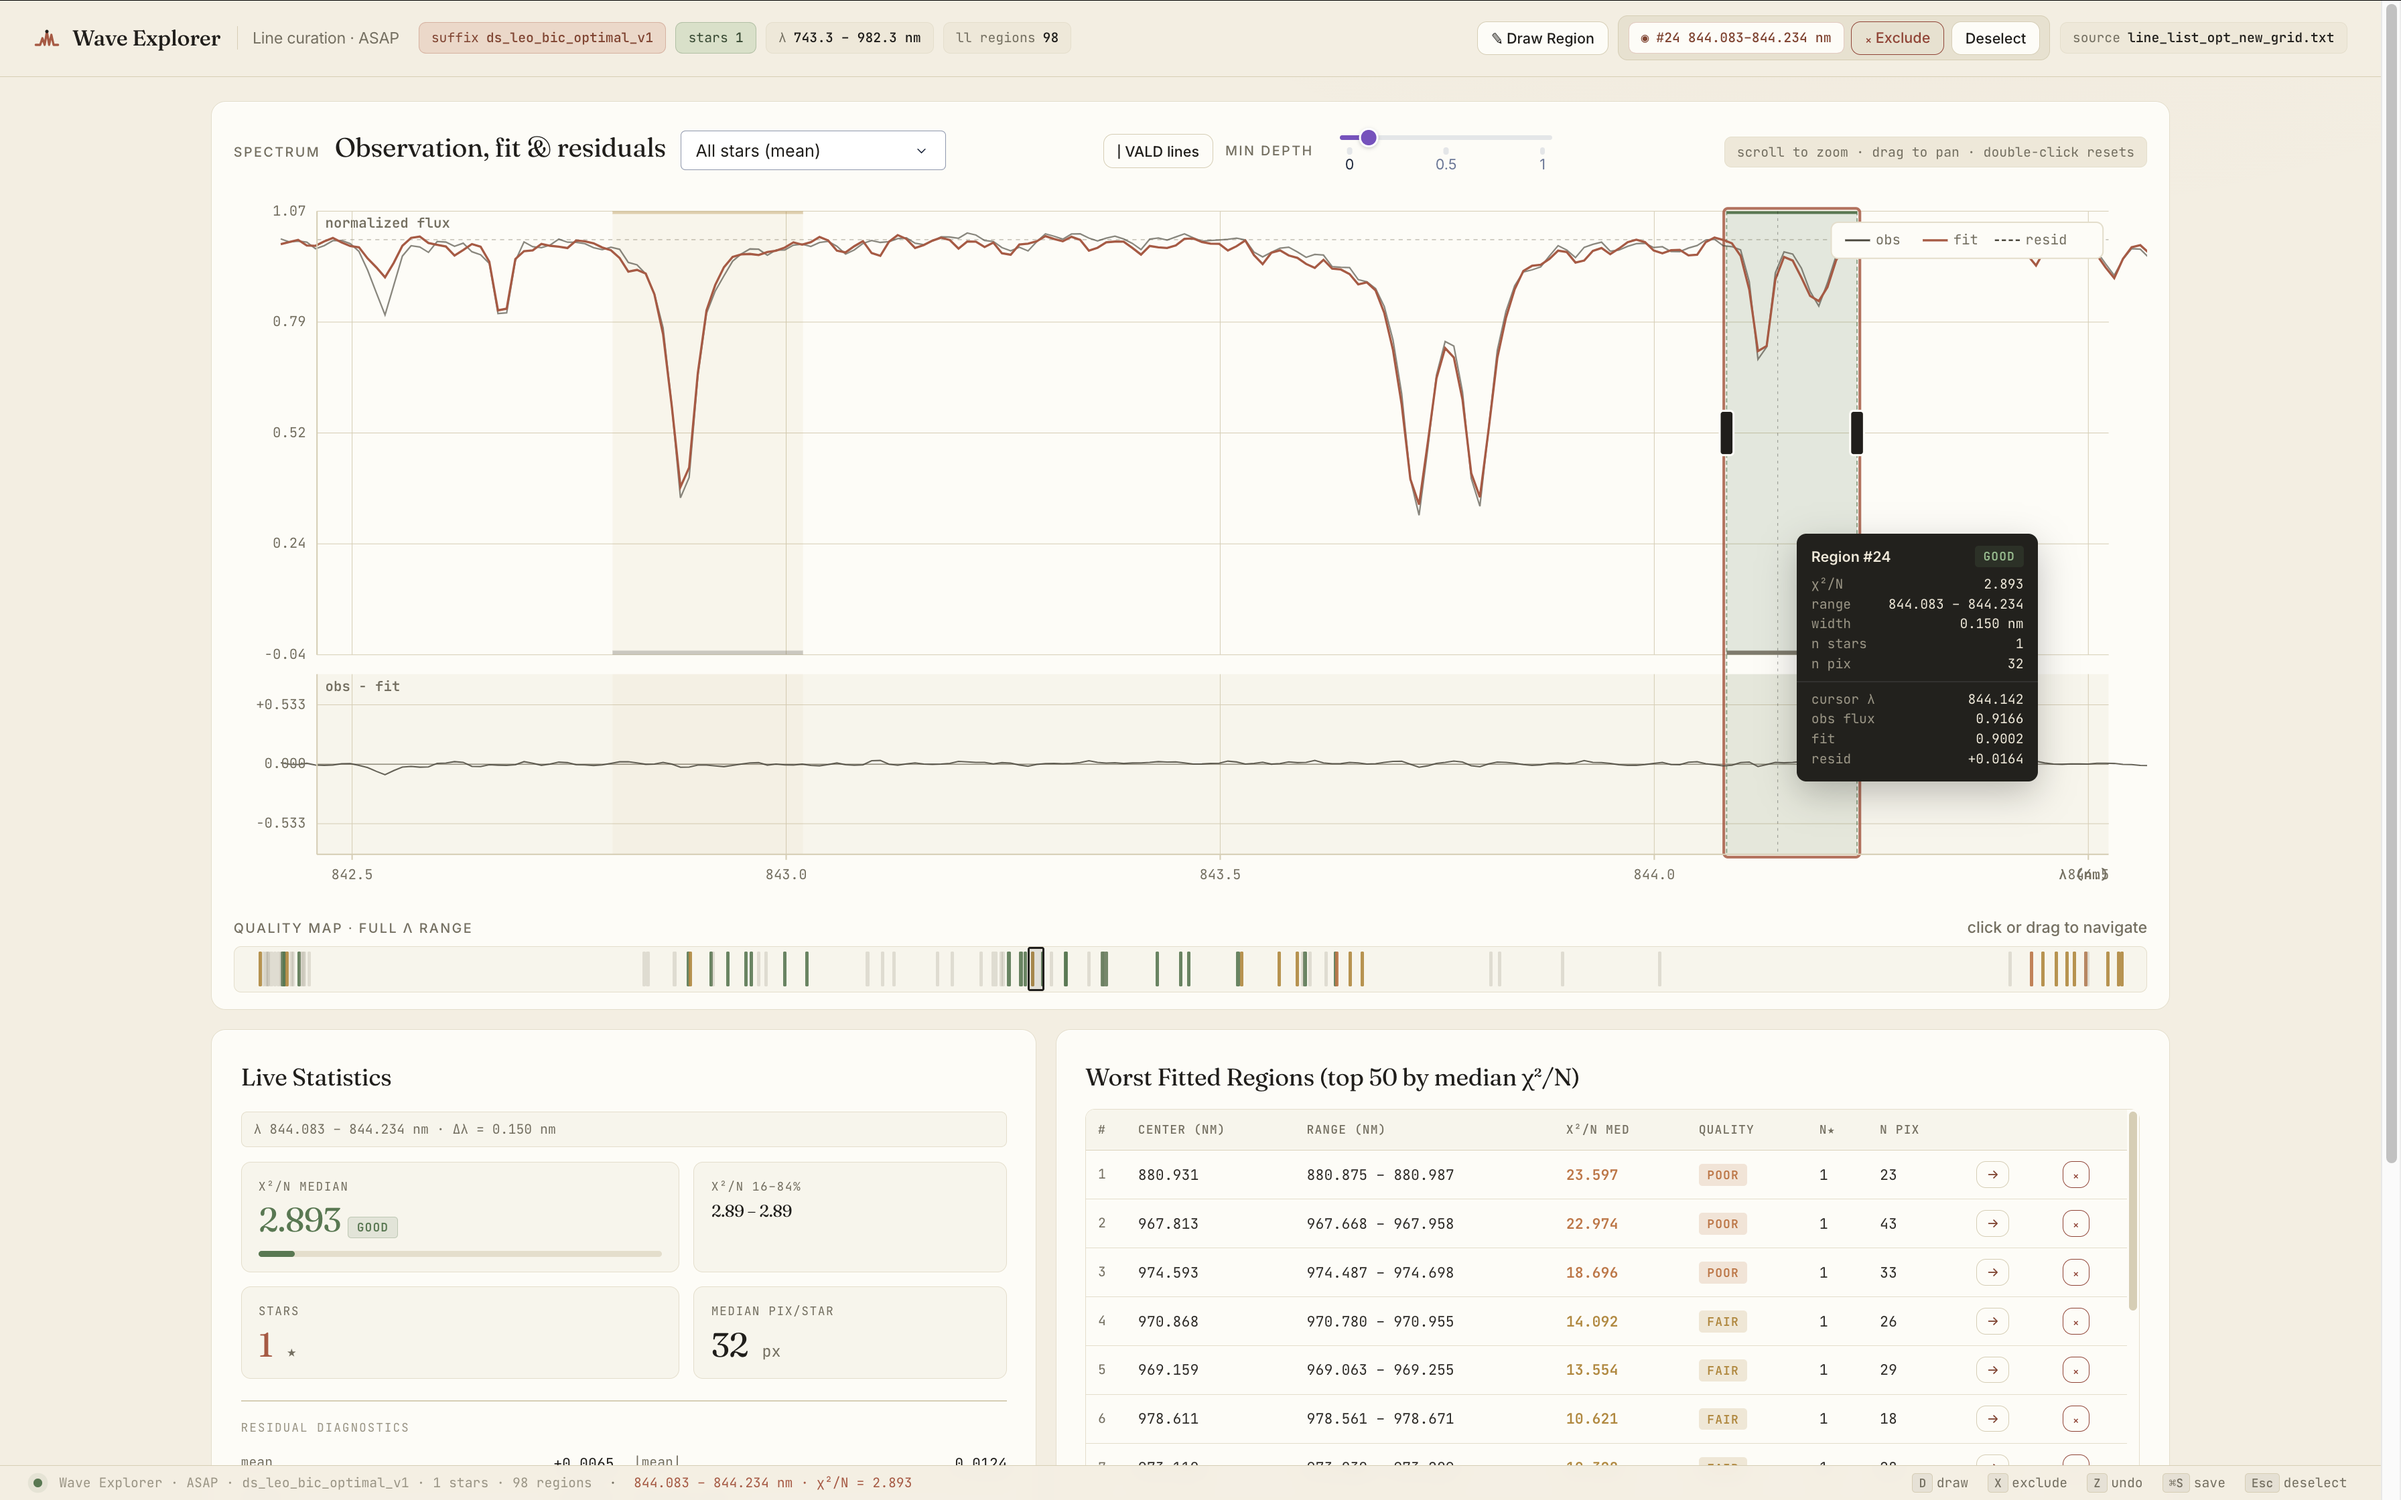
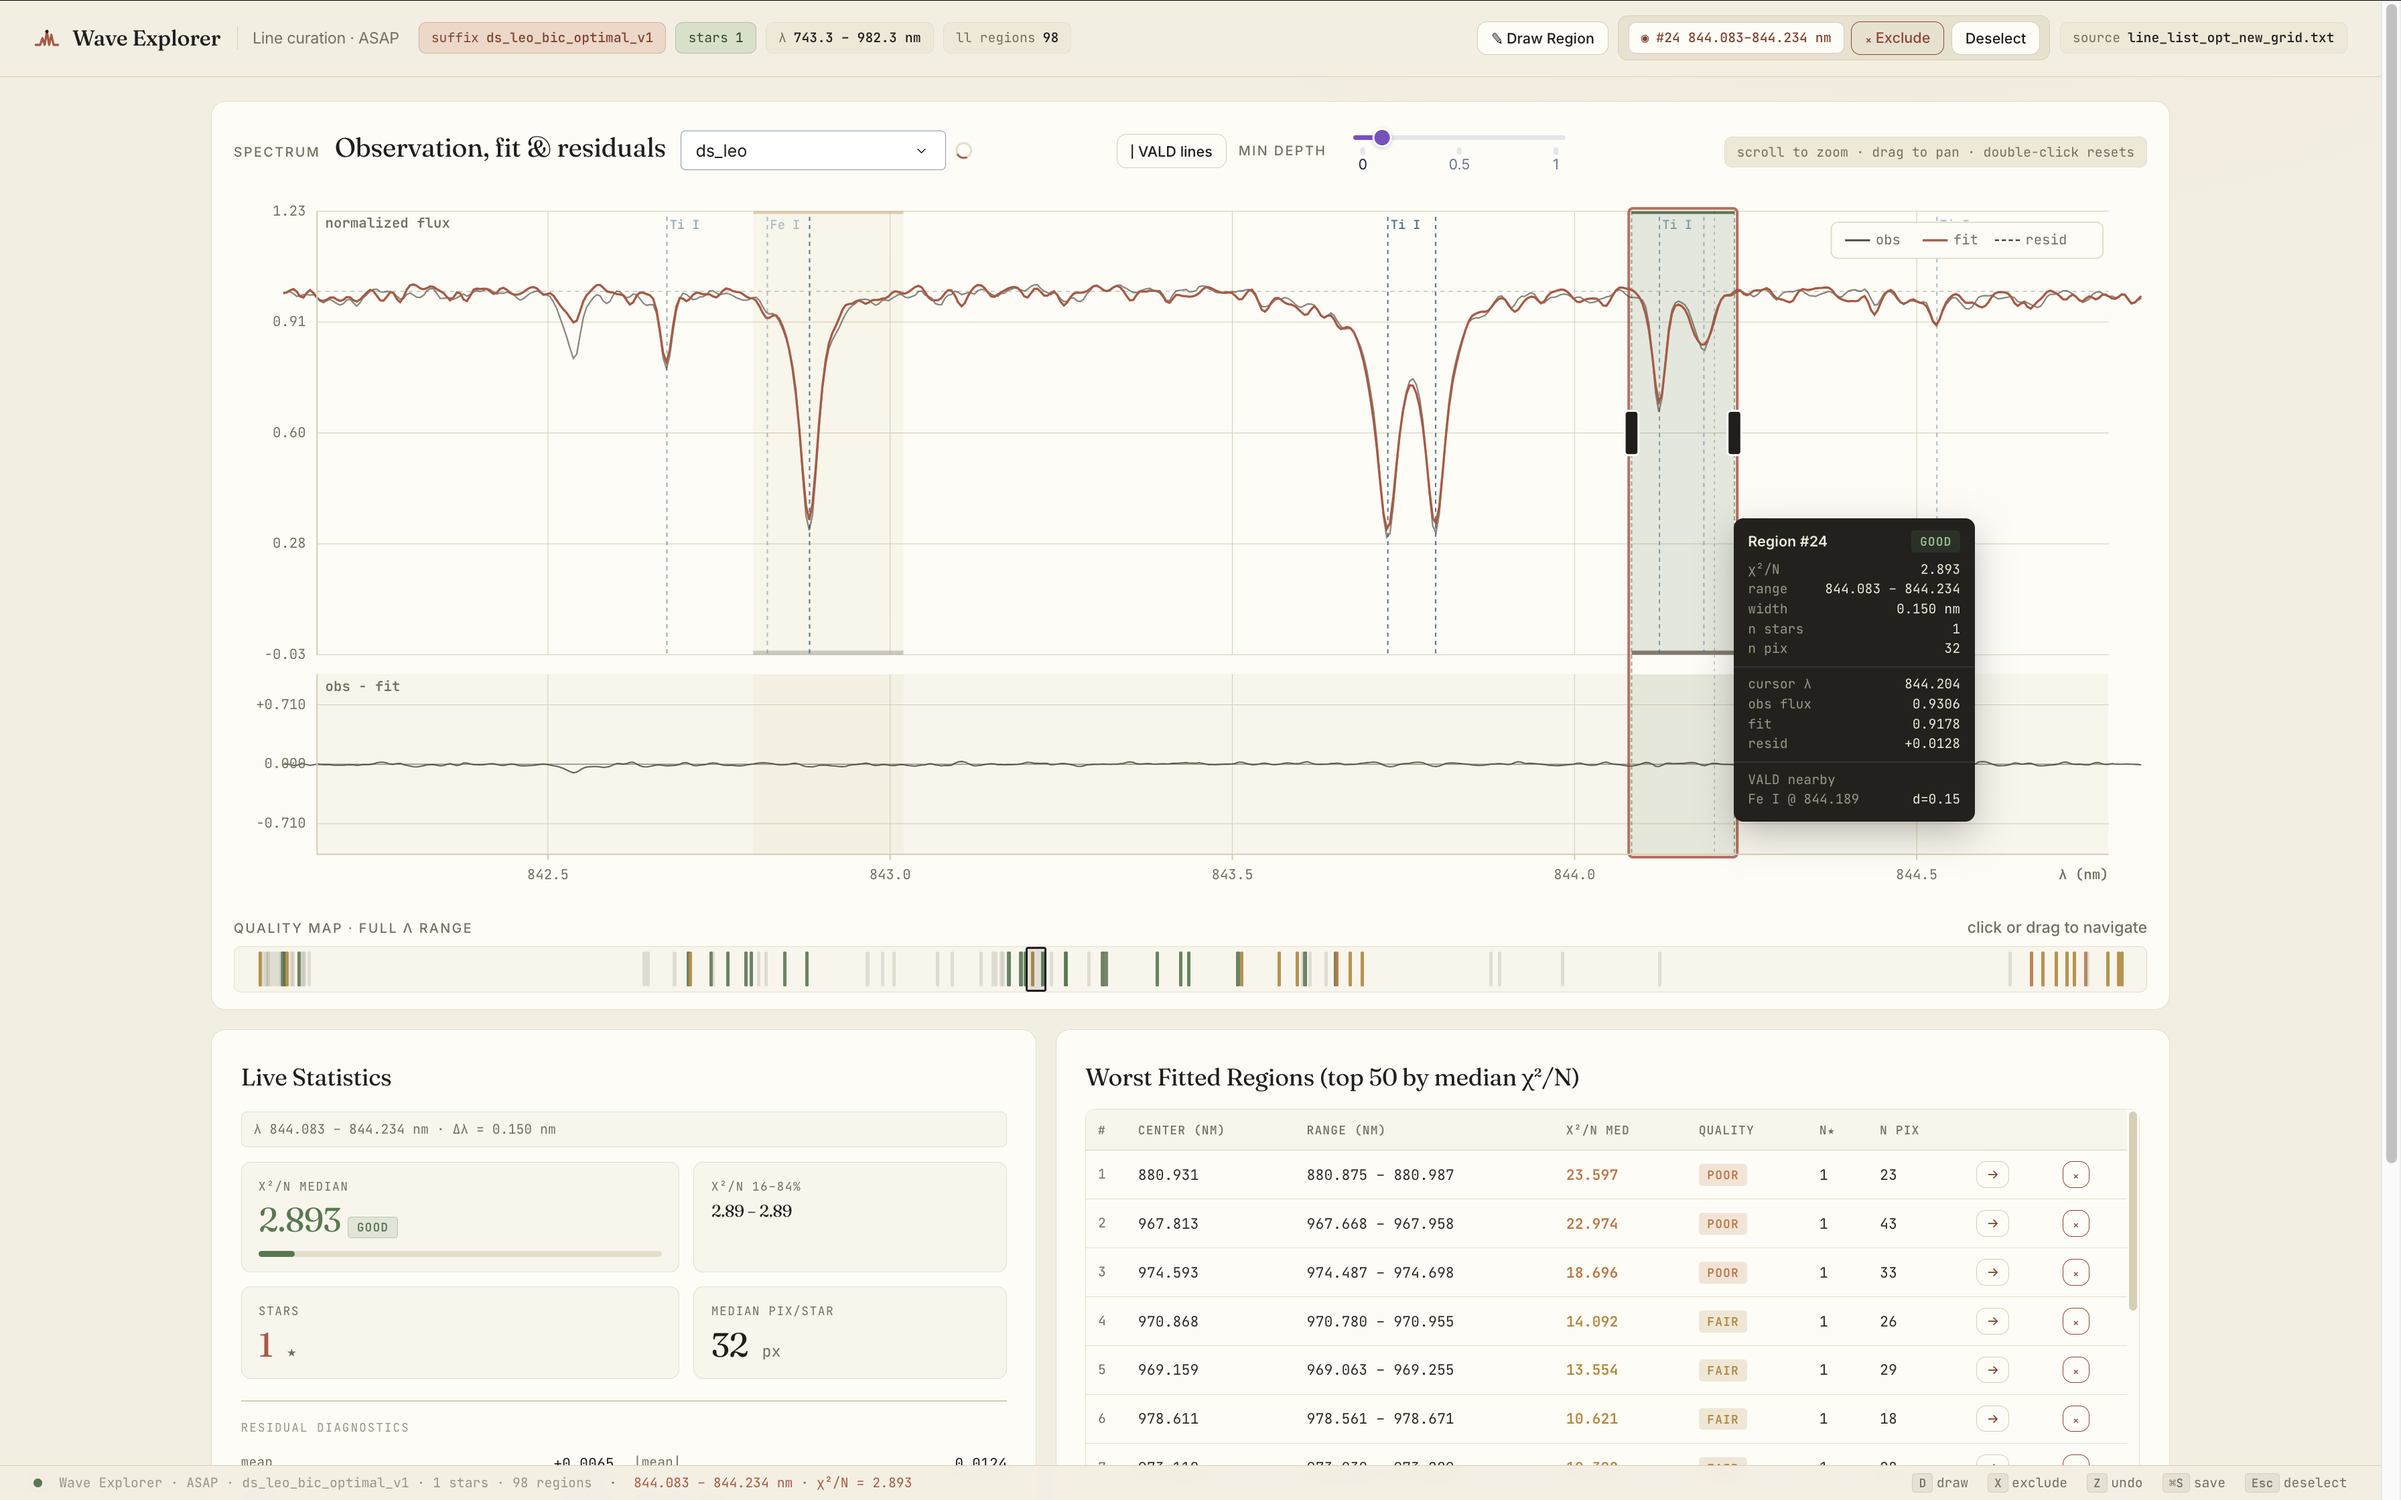
Update on Overleaf.

diff --git a/mainmatter/4-Methods.tex b/mainmatter/4-Methods.tex
@@ -119,6 +119,13 @@ The 16th--84th percentiles of the second-pass posterior, taken relative to the m
 \subsection{Line list}
 \label{sec:methods_linelist}
 
+\begin{figure*}
+    \centering
+    \includegraphics[width=\linewidth]{figures/wave_explorer.png}
+    \caption{The \texttt{wave\_explorer} tool applied to DS Leo. The main panel shows the observed spectrum (grey) and the model fit (red), with the residuals (obs $-$ fit) in the lower sub-panel. Selected regions are drawn as shaded vertical bands, colour-coded by their mean pixel-wise $\chi^2$. Hovering over a region displays its statistics. VALD lines can be overplotted to identify which species and transition each spectral feature corresponds to. Regions can be added, excluded, or have their bounds adjusted. Summary statistics for all regions are given in the lower-left panel, while the lower-right panel lists the worst-fitted regions, each of which can be clicked to zoom directly to that region.}
+    \label{fig:wave_explorer}
+\end{figure*}
+
 A careful selection of absorption lines is crucial. Not all of the observed spectrum is usable, and not all of it is equally informative. Parts are degraded by low signal-to-noise or contaminated by
 telluric features, and the forward model reproduces some regions more
 faithfully than others. We therefore restrict the analysis to a curated set of spectral regions, since the likelihood of Sect.~\ref{sec:methods_likelihood} is evaluated only over them: these regions alone determine which features drive the joint posterior over $T_\mathrm{eff}$, $\log g$, $\mathrm{[M/H]}$, $v_r$, $\zeta_\mathrm{RT}$, and the filling factors $f_i$. In what follows we use \emph{line list} for the set of spectral lines of interest and \emph{regions}
@@ -129,7 +136,7 @@ Each parameter alters a line's strength, width, or central wavelength in ways th
 These degeneracies set the selection criteria. The list should span a range of $g_\mathrm{eff}$, since comparing transitions of differing magnetic sensitivity is what separates Zeeman broadening from the rotational and turbulent broadening. Longer-wavelength lines are favoured, as the Zeeman splitting grows with wavelength \citep{donati_landstreet+2009, Reiners+2012}. The group of Ti~\textsc{i} lines near 970~nm identified by \citet{Kochukhov+2017, Shulyak+2017, Kochukhov_2021} is especially valuable for this reason. It is equally important to include at least one transition with negligible $g_\mathrm{eff}$, because such a line pins down the non-magnetic broadening, principally the macroturbulence $\zeta_\mathrm{RT}$ and the stellar rotation, independently of the field, disentangling the two broadening effects.
 
 To assemble and refine this list we built \texttt{wave\_explorer}, an
-interactive spectrum-exploration tool. For a given star it overlays the observed spectrum on a synthetic spectrum generated from the point estimates of the parameters a completed pipeline run, showing directly which features the forward model reproduces and which it misses. Region boundaries can be adjusted, new windows added, and existing ones removed. The tool also reports the residuals between observation and model and assigns a quality flag from the mean pixel-wise $\chi^2$. A high value marks a systematic mismatch, such as a poorly modelled line, an unmasked telluric, or a continuum error. Sorting by this flag produces a worst-first table, letting us quickly inspect where model and data disagree most and prune or remask accordingly.
+interactive spectrum-exploration tool. For a given star it overlays the observed spectrum on a synthetic spectrum generated from the point estimates of the parameters a completed pipeline run, showing directly which features the forward model reproduces and which it misses. Region boundaries can be adjusted, new windows added, and existing ones removed. The tool also reports the residuals between observation and model and assigns a quality flag from the mean pixel-wise $\chi^2$. A high value marks a systematic mismatch, such as a poorly modelled line, an unmasked telluric, or a continuum error. Sorting by this flag produces a worst-first table, letting us quickly inspect where model and data disagree most and prune or remask accordingly. On top of this, lines from the VALD database are overplotted and labelled by species, indicating which transitions are responsible for each observed feature. A screenshot of the tool is displayed in Fig. ~\ref{fig:wave_explorer}.
 
 \texttt{wave\_explorer} can be run on a single star or on many at once.
 Single-star mode tailors a list to one target, whereas multi-star mode builds a list that performs well across a diverse sample, as required when a common selection must serve many stars. In multi-star mode the displayed spectrum and residuals are the pixel-by-pixel averages of the observed and model flux on a common wavelength grid, which exposes the features shared across the sample. The quality flag of each region is then the median $\chi^2$ over stars, so a region is penalised only when it fits poorly for the sample as a whole rather than for a single outlier.
@@ -263,7 +270,7 @@ where $\mathcal{L}$ is the likelihood (Eq.~\ref{eq:likelihood}) evaluated at the
 We apply this post hoc, without re-running the MCMC. The production run (Sect.~\ref{sec:methods_filter}) uses a magnetic grid spanning $0$--$10\,\mathrm{kG}$ in $1\,\mathrm{kG}$ steps. From its best-fit solution we compute the BIC of the full configuration and then collapse the grid from the top down. At each step the strongest component is removed and its filling factor transferred to the next-strongest component, the synthetic spectrum is recomputed with all other parameters held at their best-fit values, and the likelihood and BIC are re-evaluated, lowering $k$ by one. Transferring the filling factor to the adjacent bin rather than discarding it lowers $\langle B \rangle$ by only $f_{\rm drop}\,\Delta B$ per step (with $\Delta B = 1\,\mathrm{kG}$ the grid spacing), so the collapse traces a smooth, monotonically decreasing sequence in $\langle B \rangle$. We repeat until only the non-magnetic component remains and adopt the lowest-BIC configuration. Because removing a genuine strong-field component sharply degrades the fit while removing a spurious one barely changes it, the criterion is self-regulating. It strips unsupported high-field components from weakly magnetic stars, lowering their $\langle B \rangle$, while retaining the full grid for genuinely magnetic ones.  The chosen configuration is then rerun in the production phase with the star's filtered line list from the diagnostic phase, from which the reported
 $\langle B \rangle$ is derived. Figure~\ref{fig:bic_scan_ds_leo} illustrates this scan for DS~Leo, where the BIC turns over once the unsupported high-field components have been stripped.
 
-The selection lowers $\langle B\rangle$ for all 40 stars (Fig.~\ref{fig:bic_field_comparison}), confirming the one-sided upward bias of the full grid. The shift is systematic in sign but modest: a median of $0.23\,\mathrm{kG}$ (mean $0.30\,\mathrm{kG}$), comparable to the typical $1\sigma$ uncertainty on $\langle B\rangle$ and smaller than the error bar for 24 of the 40 stars. It is largest in the weakly magnetic tail, where the non-negativity bias dominates. Every shift above $2\sigma$ falls there, and the field is removed entirely for six stars with full-grid $\langle B\rangle \lesssim 0.7\,\mathrm{kG}$. For the genuinely magnetic stars the full and BIC-selected models agree within their uncertainties, so the scan suppresses the spurious weak-field signal without disturbing the strong-field measurements.
+The selection lowers $\langle B\rangle$ for all 40 stars (Fig.~\ref{fig:bic_field_comparison}), confirming the one-sided upward bias of the full grid. The shift is systematically downwards with a median of $0.23\,\mathrm{kG}$ (mean $0.30\,\mathrm{kG}$), comparable to the typical $1\sigma$ uncertainty on $\langle B\rangle$ and smaller than the error bar for 24 of the 40 stars. It is largest in the weakly magnetic tail, where the non-negativity bias dominates. Every shift above $2\sigma$ falls there, and the field is removed entirely for six stars with full-grid $\langle B\rangle \lesssim 0.7\,\mathrm{kG}$. For the genuinely magnetic stars the full and BIC-selected models agree within their uncertainties, so the scan suppresses the spurious weak-field signal without disturbing the strong-field measurements.
 
 \begin{figure}
     \centering
